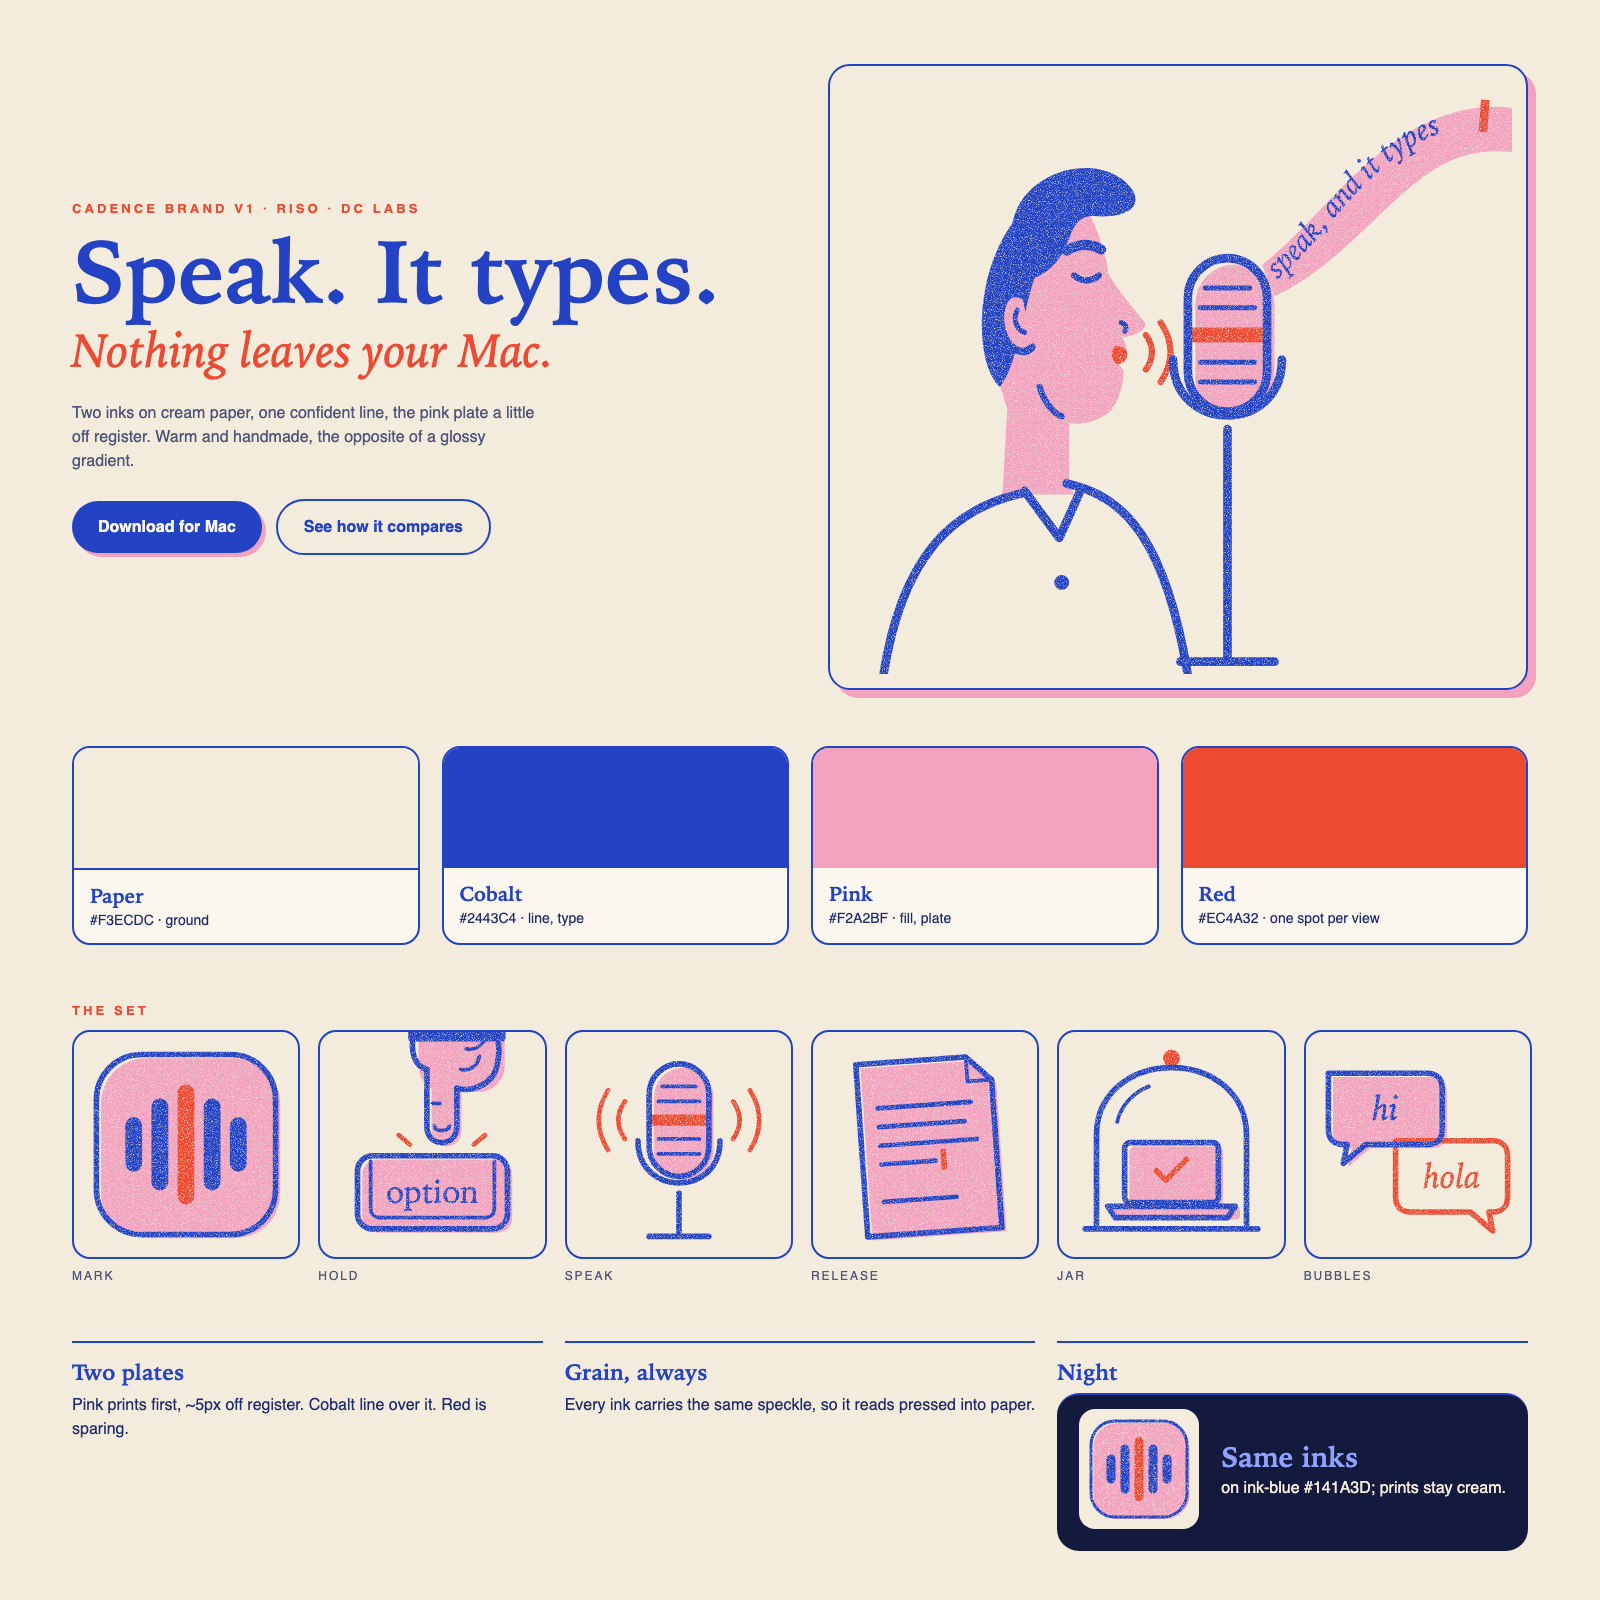
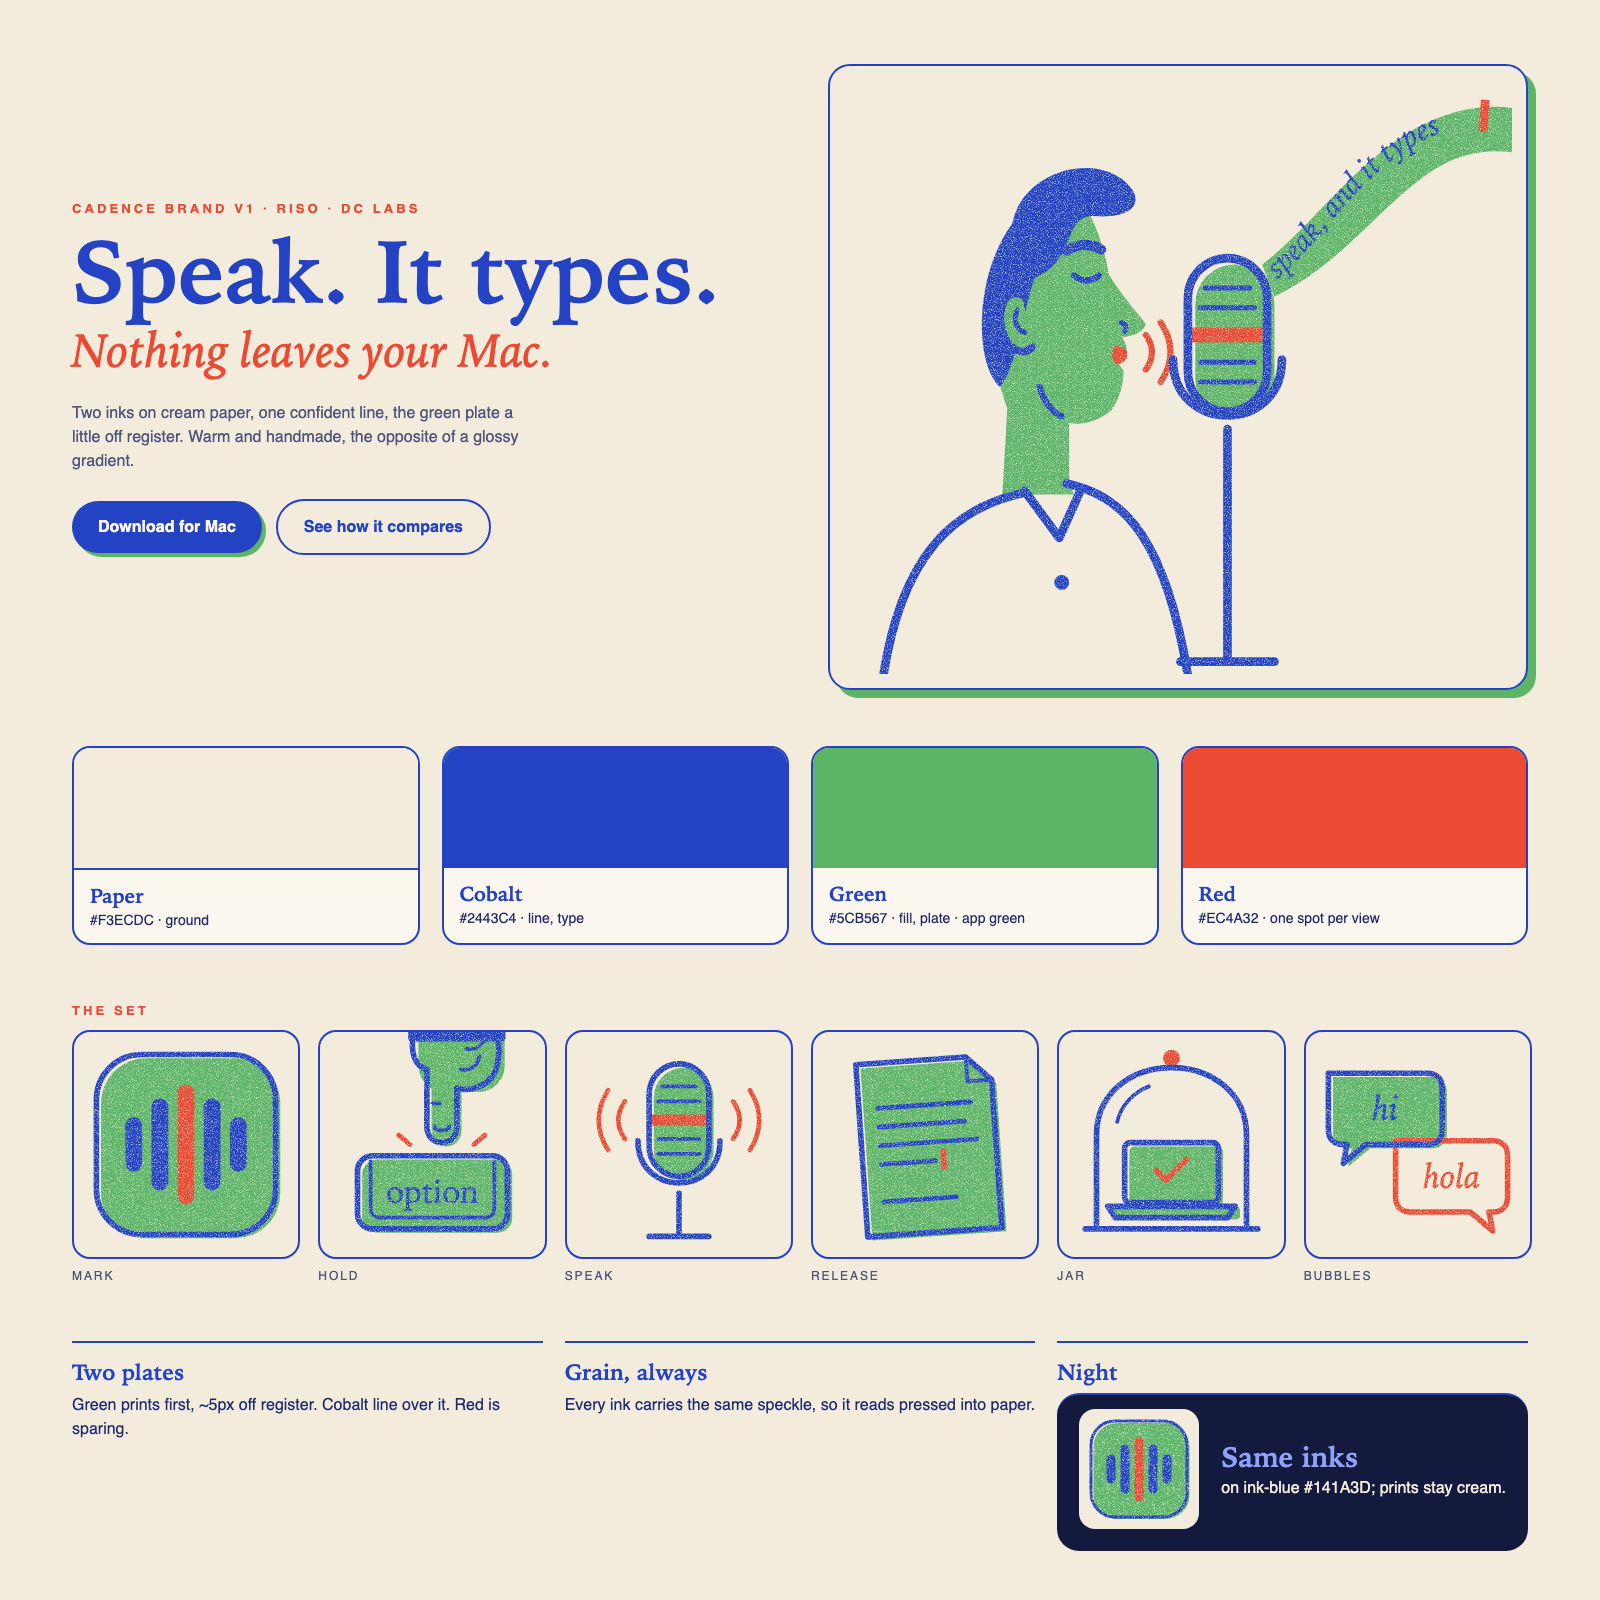
Riso brand, green option: Cadence green #5CB567 replaces pink as the fill ink
Same art and layout; the fill and plate ink becomes the app's own green so the
site, app icon and menu-bar pill share one colour. Contrast re-checked (AA).

diff --git a/site/style.css b/site/style.css
@@ -1,9 +1,9 @@
-/* Cadence: riso print. Two inks on cream paper, cobalt #2443C4 and pink #F2A2BF, red #EC4A32 as the
-   spot. Night mode is the same inks on a deep ink-blue sheet, and the illustrations stay on cream
+/* Cadence: riso print. Two inks on cream paper, cobalt #2443C4 and Cadence green #5CB567 (the app's own green), red
+   #EC4A32 as the spot. Night mode is the same inks on a deep ink-blue sheet, and the illustrations stay on cream
    cards, like prints pinned to a dark wall. Brand guide: docs/brand/README.md. */
 :root {
   --paper:#f3ecdc; --paper-2:#ebe2cc; --ink:#1d2a6b; --muted:#4f557a; --line:#d8cdb2; --card:#fbf7ee;
-  --blue:#2443c4; --blue-ink:#fbf7ee; --pink:#f2a2bf; --pink-soft:#f8d5e1; --red:#ec4a32; --red-text:#b02d18; --pill:#1d2a6b; --pill-fg:#fbf7ee;
+  --blue:#2443c4; --blue-ink:#fbf7ee; --green:#5cb567; --green-soft:#dcefd6; --red:#ec4a32; --red-text:#b02d18; --pill:#1d2a6b; --pill-fg:#fbf7ee;
   --print:#f3ecdc;
   --serif:"Iowan Old Style","New York","Palatino Linotype",Georgia,serif;
   --sans:-apple-system,BlinkMacSystemFont,"SF Pro Text","Helvetica Neue",Arial,sans-serif;
@@ -20,14 +20,14 @@
 @media (min-width:2400px) { :root { --max:min(1840px, calc(100vw - 2 * var(--gutter))); } }
 @media (prefers-color-scheme:dark) {
   :root { --paper:#141a3d; --paper-2:#1a2150; --ink:#f3ecdc; --muted:#b9b8cf; --line:#2c356c; --card:#1b2250;
-    --blue:#8fa2ff; --blue-ink:#141a3d; --pink:#f2a2bf; --pink-soft:#3a2a52; --red:#ff7a63; --red-text:#ff7a63; --pill:#f3ecdc; --pill-fg:#141a3d; }
+    --blue:#8fa2ff; --blue-ink:#141a3d; --green:#5cb567; --green-soft:#1d3a3a; --red:#ff7a63; --red-text:#ff7a63; --pill:#f3ecdc; --pill-fg:#141a3d; }
 }
 *,*::before,*::after { box-sizing:border-box; }
 html { scroll-behavior:smooth; -webkit-text-size-adjust:100%; }
 body { margin:0; background:var(--paper); color:var(--ink); font:17px/1.6 var(--sans); overflow-wrap:anywhere; }
 img { display:block; max-width:100%; height:auto; }
 figure { margin:0; }
-a { color:inherit; text-underline-offset:3px; text-decoration-color:var(--pink); text-decoration-thickness:2px; }
+a { color:inherit; text-underline-offset:3px; text-decoration-color:var(--green); text-decoration-thickness:2px; }
 code,pre,kbd { font-family:var(--mono); }
 code { font-size:.88em; }
 :focus-visible { outline:3px solid var(--red); outline-offset:3px; border-radius:6px; }
@@ -36,8 +36,8 @@ code { font-size:.88em; }
 .skip:focus { top:12px; }
 
 /* Red text uses --red-text (AA on every surface); bright --red is for art, carets and dots only. */
-/* A print: illustration on a cream card with a pink plate offset behind it */
-.print { background:var(--print); border:2px solid var(--blue); border-radius:22px; box-shadow:8px 8px 0 var(--pink); }
+/* A print: illustration on a cream card with a green plate offset behind it */
+.print { background:var(--print); border:2px solid var(--blue); border-radius:22px; box-shadow:8px 8px 0 var(--green); }
 
 .site-header { position:sticky; top:0; z-index:5; display:flex; justify-content:space-between; align-items:center; gap:16px; flex-wrap:wrap;
   padding:10px var(--gutter); background:color-mix(in srgb,var(--paper) 88%,transparent); backdrop-filter:saturate(1.4) blur(12px); -webkit-backdrop-filter:saturate(1.4) blur(12px); border-bottom:2px solid var(--blue); }
@@ -46,8 +46,8 @@ code { font-size:.88em; }
 .site-header nav { display:flex; gap:clamp(12px,3vw,28px); align-items:center; flex-wrap:wrap; font:600 13px/1 var(--sans); letter-spacing:.12em; text-transform:uppercase; }
 .site-header nav a { text-decoration:none; color:var(--muted); min-height:44px; display:inline-flex; align-items:center; }
 .site-header nav a:hover { color:var(--blue); }
-.site-header .nav-cta { color:var(--blue-ink); background:var(--blue); padding:0 18px; border-radius:999px; box-shadow:3px 3px 0 var(--pink); }
-.site-header .nav-cta:hover { color:var(--blue-ink); transform:translate(-1px,-1px); box-shadow:4px 4px 0 var(--pink); }
+.site-header .nav-cta { color:var(--blue-ink); background:var(--blue); padding:0 18px; border-radius:999px; box-shadow:3px 3px 0 var(--green); }
+.site-header .nav-cta:hover { color:var(--blue-ink); transform:translate(-1px,-1px); box-shadow:4px 4px 0 var(--green); }
 
 main > section { padding:clamp(72px,10vw,128px) var(--gutter); }
 main > section > * { max-width:var(--max); margin-left:auto; margin-right:auto; }
@@ -67,15 +67,15 @@ h3 { font:700 21px/1.25 var(--serif); }
 .hero-actions { display:flex; gap:14px; flex-wrap:wrap; }
 .hero-art { padding:clamp(8px,1.4vw,16px); transform:rotate(1.2deg); }
 .button { display:inline-flex; align-items:center; justify-content:center; min-height:52px; padding:0 26px; border-radius:999px;
-  background:var(--blue); color:var(--blue-ink); font:700 16px/1 var(--sans); text-decoration:none; border:2px solid var(--blue); box-shadow:4px 4px 0 var(--pink); transition:transform .12s, box-shadow .12s; }
-.button:hover { transform:translate(-2px,-2px); box-shadow:6px 6px 0 var(--pink); }
-.button:active { transform:translate(2px,2px); box-shadow:1px 1px 0 var(--pink); }
+  background:var(--blue); color:var(--blue-ink); font:700 16px/1 var(--sans); text-decoration:none; border:2px solid var(--blue); box-shadow:4px 4px 0 var(--green); transition:transform .12s, box-shadow .12s; }
+.button:hover { transform:translate(-2px,-2px); box-shadow:6px 6px 0 var(--green); }
+.button:active { transform:translate(2px,2px); box-shadow:1px 1px 0 var(--green); }
 .button.ghost { background:transparent; color:var(--blue); box-shadow:none; }
-.button.ghost:hover { background:var(--pink-soft); box-shadow:none; transform:none; }
+.button.ghost:hover { background:var(--green-soft); box-shadow:none; transform:none; }
 
 /* Hero demo: a note window and the dictation pill */
 .demo { position:relative; margin-top:clamp(56px,7vw,88px) !important; max-width:820px !important; }
-.window { background:var(--card); border:2px solid var(--blue); border-radius:16px; text-align:left; box-shadow:8px 8px 0 var(--pink); }
+.window { background:var(--card); border:2px solid var(--blue); border-radius:16px; text-align:left; box-shadow:8px 8px 0 var(--green); }
 .window-bar { display:flex; gap:8px; align-items:center; padding:12px 14px; border-bottom:2px solid var(--blue); }
 .window-bar span { width:11px; height:11px; border-radius:50%; border:2px solid var(--blue); }
 .window-bar span:first-child { background:var(--red); border-color:var(--red); }
@@ -84,10 +84,10 @@ h3 { font:700 21px/1.25 var(--serif); }
 .typed .w { opacity:0; animation:word .25s ease-out forwards; }
 .caret { display:inline-block; width:3px; height:1.1em; margin-left:3px; vertical-align:-.15em; background:var(--red); animation:blink 1s steps(1) infinite; }
 .pill { position:absolute; left:50%; bottom:-22px; transform:translateX(-50%); display:flex; align-items:center; gap:10px;
-  background:var(--pill); color:var(--pill-fg); border-radius:999px; padding:12px 18px; box-shadow:4px 4px 0 var(--pink); font:700 12px/1 var(--sans); letter-spacing:.1em; text-transform:uppercase; white-space:nowrap; }
+  background:var(--pill); color:var(--pill-fg); border-radius:999px; padding:12px 18px; box-shadow:4px 4px 0 var(--green); font:700 12px/1 var(--sans); letter-spacing:.1em; text-transform:uppercase; white-space:nowrap; }
 .dot { width:9px; height:9px; border-radius:50%; background:var(--red); }
 .bars { display:flex; gap:3px; align-items:center; height:18px; }
-.bars i { display:block; width:3px; border-radius:2px; background:var(--pink); animation:wave 1.1s ease-in-out infinite; }
+.bars i { display:block; width:3px; border-radius:2px; background:var(--green); animation:wave 1.1s ease-in-out infinite; }
 .bars i:nth-child(1) { height:45%; animation-delay:-.4s; }
 .bars i:nth-child(2) { height:78%; animation-delay:-.2s; }
 .bars i:nth-child(3) { height:100%; background:var(--red); }
@@ -113,33 +113,33 @@ kbd { display:inline-flex; align-items:center; min-height:28px; padding:0 8px; m
 .feature-grid p { color:var(--muted); margin:10px 0 0; }
 .feature-art .spot { width:96px; height:96px; margin-bottom:18px; }
 .feature-lead { grid-column:span 3; display:grid; grid-template-columns:auto minmax(0,1fr); gap:clamp(20px,4vw,44px); align-items:center;
-  background:var(--blue) !important; color:var(--blue-ink); padding:clamp(24px,4vw,44px) !important; box-shadow:8px 8px 0 var(--pink); }
+  background:var(--blue) !important; color:var(--blue-ink); padding:clamp(24px,4vw,44px) !important; box-shadow:8px 8px 0 var(--green); }
 .lead-art { width:clamp(120px,16vw,200px); height:auto; background:var(--print); border-radius:20px; }
 .feature-lead h3 { font-size:clamp(28px,3.2vw,38px); color:var(--blue-ink); }
 .feature-lead p { color:var(--blue-ink) !important; opacity:.9; font-size:19px; max-width:62ch; }
 
 /* Compare */
 .compare { background:var(--paper-2); border-block:2px solid var(--blue); }
-.table-wrap { overflow-x:auto; border:2px solid var(--blue); border-radius:22px; background:var(--card); box-shadow:8px 8px 0 var(--pink); }
+.table-wrap { overflow-x:auto; border:2px solid var(--blue); border-radius:22px; background:var(--card); box-shadow:8px 8px 0 var(--green); }
 table { width:100%; min-width:760px; border-collapse:collapse; font-size:15px; }
 th,td { padding:16px 18px; text-align:left; vertical-align:top; border-bottom:1px solid var(--line); }
 tbody tr:last-child > * { border-bottom:0; }
 thead th { font:700 12px/1.3 var(--sans); letter-spacing:.14em; text-transform:uppercase; color:var(--muted); border-bottom:2px solid var(--blue); }
 tbody th { font-weight:650; width:22%; }
 td { color:var(--muted); }
-.us { background:var(--pink-soft); color:var(--ink) !important; font-weight:650; }
+.us { background:var(--green-soft); color:var(--ink) !important; font-weight:650; }
 thead .us { color:var(--red-text) !important; }
 
 /* Download */
 .download-grid { display:grid; grid-template-columns:minmax(0,.9fr) minmax(0,1.1fr); gap:clamp(24px,4vw,56px); align-items:start; }
-.download-card { position:relative; border:2px solid var(--blue); border-radius:24px; padding:clamp(24px,4vw,40px); background:var(--card); text-align:center; box-shadow:8px 8px 0 var(--pink); }
+.download-card { position:relative; border:2px solid var(--blue); border-radius:24px; padding:clamp(24px,4vw,40px); background:var(--card); text-align:center; box-shadow:8px 8px 0 var(--green); }
 .download-card img { margin:0 auto 24px; border-radius:26px; }
 .download-card .button { width:100%; }
 .small { color:var(--muted); font-size:14px; }
 .download-card pre { text-align:left; }
 pre { background:var(--paper); border:2px dashed var(--line); border-radius:12px; padding:14px 16px; font-size:13px; line-height:1.65; white-space:pre-wrap; overflow-wrap:anywhere; margin:0; color:var(--ink); }
 .copy { margin-top:10px; min-height:44px; padding:0 18px; border:2px solid var(--blue); border-radius:999px; background:var(--card); color:var(--blue); font:700 14px/1 var(--sans); cursor:pointer; }
-.copy:hover { background:var(--pink-soft); }
+.copy:hover { background:var(--green-soft); }
 .first-open h3 { margin:0 0 10px; }
 .first-open h3:not(:first-child) { margin-top:32px; }
 .first-open p,.first-open li { color:var(--muted); }
@@ -150,13 +150,13 @@ pre { background:var(--paper); border:2px dashed var(--line); border-radius:12px
 
 /* Creator */
 .creator { background:var(--paper-2); border-top:2px solid var(--blue); }
-.creator-card { display:grid; grid-template-columns:auto minmax(0,1fr); gap:clamp(24px,5vw,56px); border:2px solid var(--blue); border-radius:28px; padding:clamp(24px,5vw,56px); background:var(--card); box-shadow:8px 8px 0 var(--pink); }
-.monogram { width:clamp(96px,13vw,152px); aspect-ratio:1; border-radius:50%; display:grid; place-items:center; background:var(--pink); color:var(--blue); border:3px solid var(--blue); font:italic 700 clamp(40px,5.4vw,64px)/1 var(--serif); }
+.creator-card { display:grid; grid-template-columns:auto minmax(0,1fr); gap:clamp(24px,5vw,56px); border:2px solid var(--blue); border-radius:28px; padding:clamp(24px,5vw,56px); background:var(--card); box-shadow:8px 8px 0 var(--green); }
+.monogram { width:clamp(96px,13vw,152px); aspect-ratio:1; border-radius:50%; display:grid; place-items:center; background:var(--green); color:var(--blue); border:3px solid var(--blue); font:italic 700 clamp(40px,5.4vw,64px)/1 var(--serif); }
 .creator h2 { font-size:clamp(30px,4vw,48px); margin-bottom:18px; }
 .creator p { max-width:62ch; color:var(--muted); }
 .creator-links { list-style:none; padding:0; margin:24px 0 0; display:flex; flex-wrap:wrap; gap:10px; }
 .creator-links a { display:inline-flex; align-items:center; min-height:44px; padding:0 16px; border:2px solid var(--blue); border-radius:999px; text-decoration:none; font-size:14px; font-weight:600; color:var(--blue); }
-.creator-links a:hover { background:var(--pink-soft); }
+.creator-links a:hover { background:var(--green-soft); }
 
 /* FAQ */
 .faq details { border-top:2px solid var(--blue); }

diff --git a/docs/brand/README.md b/docs/brand/README.md
@@ -1,9 +1,9 @@
 # Cadence brand, v1 (riso)
 
-Cadence looks like a risograph print: two inks on cream paper, drawn with one confident
+Cadence looks like a risograph print: two inks on cream paper (cobalt and Cadence green), drawn with one confident
 line. It's warm, a little handmade and a little off-register. That suits a tool about your
 own voice, and it sets Cadence apart from the glossy gradients every other dictation app uses.
-Adopted 29 Oct 2026, when Daniel picked the riso direction for Cadence marketing.
+Adopted 29 Oct 2026, when Daniel picked the riso direction for Cadence marketing. The fill ink is Cadence green rather than the reference's pink, so the brand keeps the green the app already uses.
 
 The source files live in [`site/art/`](../../site/art/), the one place the site and this
 guide both read from. Don't copy them anywhere else.
@@ -18,7 +18,7 @@ One paper and three inks. The art is printed only in the three inks, and the pap
 | --- | --- | --- |
 | Paper | `#F3ECDC` | Background, and the card behind every illustration |
 | Cobalt | `#2443C4` | Line work, headings, buttons. The main ink |
-| Pink | `#F2A2BF` | Fills, and the offset "plate" shadow behind cards and buttons |
+| Green | `#5CB567` | Fills, and the offset "plate" shadow behind cards and buttons. The app's own green, so the site, the app and the icon share one colour |
 | Red | `#EC4A32` | The spot colour: one accent per view (mouth, caret, peak bar) |
 
 Small red **text** (labels, kickers) uses the deeper `#B02D18`, because bright red on cream
@@ -30,10 +30,10 @@ pinned to a dark wall.
 
 ## Rules for the art
 
-- **Two plates.** The pink plate prints first and sits slightly off register (about 5px
+- **Two plates.** The green plate prints first and sits slightly off register (about 5px
   down-right). Cobalt line work prints over it, and red is used sparingly.
 - **Line.** One weight per drawing (6–7 at the drawing's scale), with round caps and joins.
-  There are no gradients and no outlines on the pink.
+  There are no gradients and no outlines on the green.
 - **Grain.** Every ink carries the same speckle filter (`#grain`, fractal noise, seed 7),
   so the colour looks pressed into the paper rather than flat. Apply it once, on one group
   that wraps the whole drawing.
